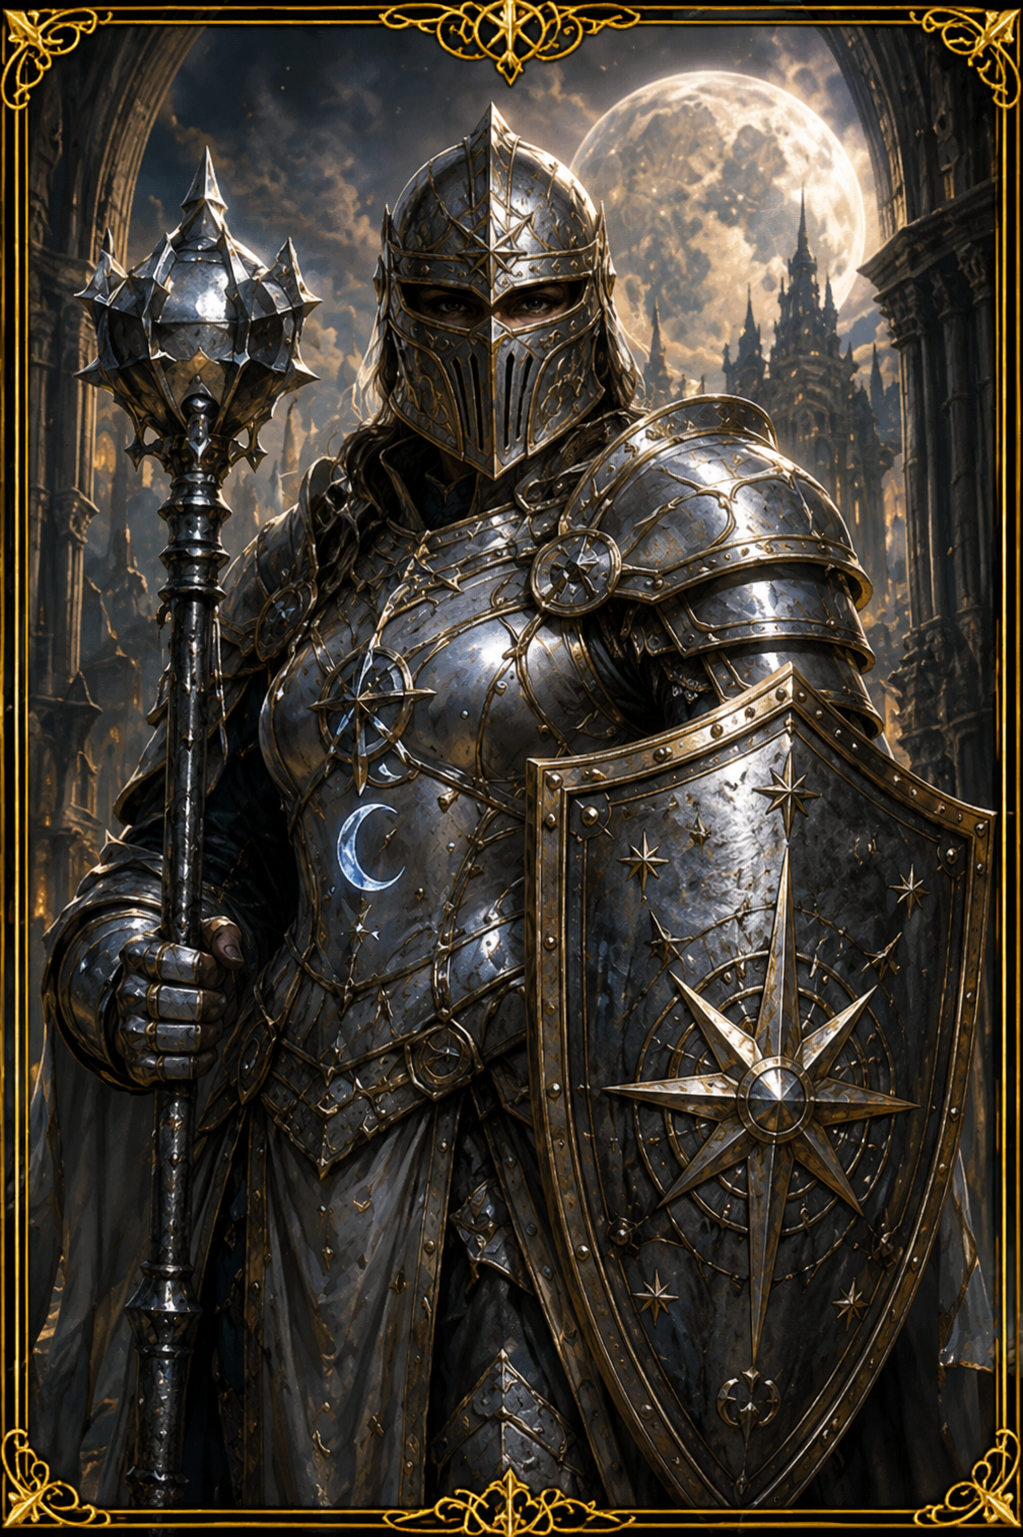
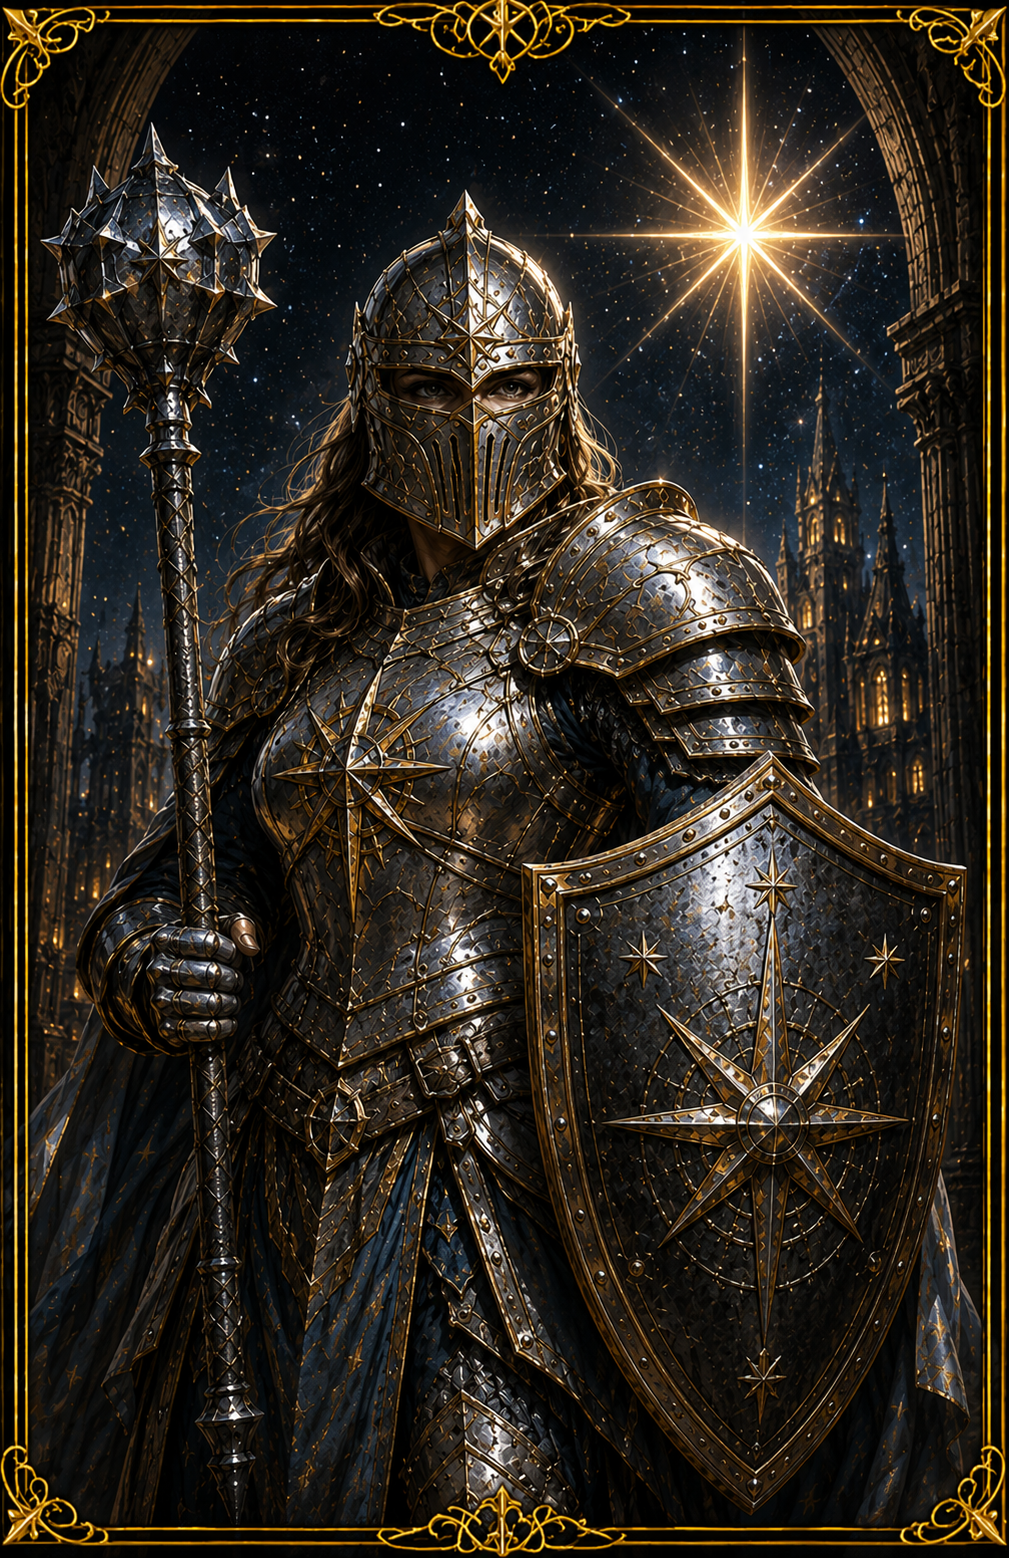
Unify spell/effect color logic in EffectVisualConfig
Centralized all spell and effect color mapping in EffectVisualConfig, removing duplicated string-matching and switch logic from CombatPlaybackEngine, AvaloniaCombatPresenter, and MainWindowViewModel. Added GetElementColor, GetElementDoTName, and GetSpellOverlayColor for consistent, data-driven color assignment. All color lookups now delegate to this config, ensuring maintainability and identical visual output.

diff --git a/src/BattleArena.Presentation/CombatPlaybackEngine.cs b/src/BattleArena.Presentation/CombatPlaybackEngine.cs
@@ -303,27 +303,8 @@ public static class CombatPlaybackEngine
         }
     }
 
-    private static string SpellOverlayColor(string spellName)
-    {
-        var lower = spellName.ToLowerInvariant();
-        if (lower.Contains("fire") || lower.Contains("flame") || lower.Contains("burn") || lower.Contains("inferno"))
-            return "#ff6600";
-        if (lower.Contains("ice") || lower.Contains("frost") || lower.Contains("freeze") || lower.Contains("cold"))
-            return "#44ccff";
-        if (lower.Contains("shock") || lower.Contains("lightning") || lower.Contains("thunder") || lower.Contains("spark"))
-            return "#ffff44";
-        if (lower.Contains("heal") || lower.Contains("cure") || lower.Contains("bless") || lower.Contains("restore"))
-            return "#44cc44";
-        if (lower.Contains("stun") || lower.Contains("sleep") || lower.Contains("fear") || lower.Contains("charm"))
-            return "#cc44cc";
-        if (lower.Contains("poison") || lower.Contains("acid"))
-            return "#44ff44";
-        if (lower.Contains("arcane") || lower.Contains("magic") || lower.Contains("mystic"))
-            return "#cc88ff";
-        if (lower.Contains("shield") || lower.Contains("armor") || lower.Contains("ward") || lower.Contains("protect"))
-            return "#88aaff";
-        return "#ffffff";
-    }
+    private static string SpellOverlayColor(string spellName) =>
+        EffectVisualConfig.GetSpellOverlayColor(spellName);
 
     private static bool WasFromCriticalHit(IReadOnlyList<CombatLogEntry> turnEvents, int damageIndex)
     {
@@ -349,31 +330,8 @@ public static class CombatPlaybackEngine
         return damageAmount * 100 >= targetState.MaxHp * devastationThresholdPercent;
     }
 
-    private static string GetPersistentColor(string effectName)
-    {
-        if (CcVisualConfig.IsCcEffect(effectName))
-            return CcVisualConfig.GetColor(effectName);
-        return effectName switch
-        {
-            "Burning" => "#ff6600",
-            "Ignite" => "#ff4400",
-            "Frozen" => "#44ccff",
-            "Freeze" => "#44ccff",
-            "Shocked" => "#ffff44",
-            "Poisoned" => "#44ff44",
-            "Bleeding" => "#ff4444",
-            "Electrified" => "#88ddff",
-            "Confused" => "#aaaaaa",
-            "Charmed" => "#ff88aa",
-            _ => TryGetTransferColor(effectName),
-        };
-    }
-
-    private static string TryGetTransferColor(string effectName)
-    {
-        var config = TransferEffectRegistry.GetConfig(effectName);
-        return config.TransferColor;
-    }
+    private static string GetPersistentColor(string effectName) =>
+        EffectVisualConfig.GetColor(effectName);
 
     private static void EmitCombatSounds(VisualEventBus bus, CombatLogEntry entry)
     {

diff --git a/src/BattleArena.Presentation/EffectVisualConfig.cs b/src/BattleArena.Presentation/EffectVisualConfig.cs
@@ -2,6 +2,7 @@ namespace BattleArena.Presentation;
 
 using System;
 using System.Collections.Generic;
+using BattleArena.Core.Entities.Enums;
 
 [Flags]
 public enum EffectVisualTarget
@@ -71,6 +72,49 @@ public static class EffectVisualConfig
             "Charmed"   => "#ff88aa",
             _           => "#88ccff",
         };
+    }
+
+    public static string GetElementColor(ElementalType type) => type switch
+    {
+        ElementalType.Fire => "#ff6600",
+        ElementalType.Ice => "#44ccff",
+        ElementalType.Lightning => "#ffff44",
+        ElementalType.Poison => "#44ff44",
+        ElementalType.Holy => "#ffffaa",
+        ElementalType.Shadow => "#aa44aa",
+        ElementalType.Acid => "#44ff44",
+        _ => "#ffffff",
+    };
+
+    public static string? GetElementDoTName(ElementalType type) => type switch
+    {
+        ElementalType.Fire => "Burning",
+        ElementalType.Ice => "Chilled",
+        ElementalType.Lightning => "Shocked",
+        ElementalType.Poison => "Poisoned",
+        _ => null,
+    };
+
+    public static string GetSpellOverlayColor(string spellName)
+    {
+        var lower = spellName.ToLowerInvariant();
+        if (lower.Contains("fire") || lower.Contains("flame") || lower.Contains("burn") || lower.Contains("inferno"))
+            return "#ff6600";
+        if (lower.Contains("ice") || lower.Contains("frost") || lower.Contains("freeze") || lower.Contains("cold"))
+            return "#44ccff";
+        if (lower.Contains("shock") || lower.Contains("lightning") || lower.Contains("thunder") || lower.Contains("spark"))
+            return "#ffff44";
+        if (lower.Contains("heal") || lower.Contains("cure") || lower.Contains("bless") || lower.Contains("restore"))
+            return "#44cc44";
+        if (lower.Contains("stun") || lower.Contains("sleep") || lower.Contains("fear") || lower.Contains("charm"))
+            return "#cc44cc";
+        if (lower.Contains("poison") || lower.Contains("acid"))
+            return "#44ff44";
+        if (lower.Contains("arcane") || lower.Contains("magic") || lower.Contains("mystic"))
+            return "#cc88ff";
+        if (lower.Contains("shield") || lower.Contains("armor") || lower.Contains("ward") || lower.Contains("protect"))
+            return "#88aaff";
+        return "#ffffff";
     }
 
     public static EffectVisualTarget GetVisualTarget(string effectName)

diff --git a/src/BattleArena.Gui/ViewModels/MainWindowViewModel.cs b/src/BattleArena.Gui/ViewModels/MainWindowViewModel.cs
@@ -754,24 +754,8 @@ public sealed class CharCardViewModel : INotifyPropertyChanged
     private static readonly IBrush TmPipeEmpty = new SolidColorBrush(Color.Parse("#1a1a2e"));
     private static readonly IBrush TmPipeLocked = new SolidColorBrush(Color.Parse("#ffffff"));
 
-    private static string GetEffectColor(string name)
-    {
-        if (CcVisualConfig.IsCcEffect(name))
-            return CcVisualConfig.GetColor(name);
-        return name switch
-        {
-            "Burning"   => "#ff6600",
-            "Ignite"    => "#ff4400",
-            "Frozen"    => "#44ccff",
-            "Freeze"    => "#44ccff",
-            "Shocked"   => "#ffff44",
-            "Electrified" => "#44ccff",
-            "Poisoned"  => "#44ff44",
-            "Bleeding"  => "#ff4444",
-            "Leech" or "LeechMana" => TransferEffectRegistry.GetConfig(name).TransferColor,
-            _           => "#88ccff",
-        };
-    }
+    private static string GetEffectColor(string name) =>
+        EffectVisualConfig.GetColor(name);
 
     public ObservableCollection<IBrush> TmPipes { get; }
 

diff --git a/src/BattleArena.Gui/Presenters/AvaloniaCombatPresenter.cs b/src/BattleArena.Gui/Presenters/AvaloniaCombatPresenter.cs
@@ -844,19 +844,7 @@ internal sealed class AvaloniaCombatPresenter : ICombatPresenter
     }
 
     private static IBrush EffectColor(string? effectName) =>
-        MakeBrush(effectName switch
-        {
-            "Burning" => "#ff6600",
-            "Ignite" => "#ff4400",
-            "Frozen" or "Freeze" => "#44ccff",
-            "Shocked" => "#ffff44",
-            "Electrified" => "#88ddff",
-            "Poisoned" => "#44ff44",
-            "Bleeding" => "#ff4444",
-            "Confused" => "#aaaaaa",
-            "Charmed" => "#ff88aa",
-            _ => "#88ccff",
-        });
+        MakeBrush(EffectVisualConfig.GetColor(effectName ?? ""));
 
     private static List<LogSegment> BuildDoTTickRow(CombatLogEntry e, CombatDisplayState state)
     {

diff --git a/src/BattleArena.Gui/Models/SpellDisplayItem.cs b/src/BattleArena.Gui/Models/SpellDisplayItem.cs
@@ -2,6 +2,7 @@ namespace BattleArena.Gui.Models;
 
 using Core.Entities;
 using Core.Entities.Enums;
+using BattleArena.Presentation;
 
 public sealed class SpellDisplayItem
 {
@@ -9,6 +10,9 @@ public sealed class SpellDisplayItem
 
     public Spell Spell { get; }
     public string Name => Spell.Name;
+    public string Color => EffectVisualConfig.GetElementColor(Spell.ElementalType);
+    public string? AfterburnEffectName => EffectVisualConfig.GetElementDoTName(Spell.ElementalType);
+    public string AfterburnColor => AfterburnEffectName is { } name ? EffectVisualConfig.GetColor(name) : "#ffffff";
     public string DamageInfo
     {
         get

diff --git a/bugs-features/done/task/18-Task - Unify Spell Color Detection.md b/bugs-features/done/task/18-Task - Unify Spell Color Detection.md
@@ -6,7 +6,7 @@ Priority: Medium
 
 Type: Refactoring
 
-Status: Draft
+Status: Done
 
 ---
 
@@ -123,9 +123,27 @@ Combine A + C:
 
 ## Acceptance Criteria
 
-- [ ] Only one canonical source of spell/effect color mapping exists
-- [ ] `SpellOverlayColor` and `EffectColor` both delegate to the shared config
-- [ ] Color output is identical to current behavior for all existing spell names and effect names
-- [ ] Adding a new effect requires updating only the config class, not the playback engine or presenter
-- [ ] All 719 tests pass
-- [ ] No visual regression in combat playback overlays
+- [x] Only one canonical source of spell/effect color mapping exists
+- [x] `SpellOverlayColor` and `EffectColor` both delegate to the shared config
+- [x] Color output is identical to current behavior for all existing spell names and effect names
+- [x] Adding a new effect requires updating only the config class, not the playback engine or presenter
+- [x] All 719 tests pass
+- [x] No visual regression in combat playback overlays
+
+## Summary
+
+Consolidated all spell/effect color detection into `EffectVisualConfig`:
+
+- **`EffectVisualConfig.GetElementColor(ElementalType)`** — ElementalType-driven color for spell display (used by `SpellDisplayItem`)
+- **`EffectVisualConfig.GetElementDoTName(ElementalType)`** — maps elemental type to afterburn effect name (e.g., Fire → "Burning", Ice → "Chilled")
+- **`EffectVisualConfig.GetSpellOverlayColor(string)`** — centralized name-based fallback for combat playback overlay (replaces old `SpellOverlayColor`)
+- **`EffectVisualConfig.GetColor(string)`** — effect color lookup (already existed, now the sole source)
+
+Removed duplicate methods:
+- `CombatPlaybackEngine.SpellOverlayColor()` → delegates to `EffectVisualConfig.GetSpellOverlayColor()`
+- `CombatPlaybackEngine.GetPersistentColor()` → delegates to `EffectVisualConfig.GetColor()`
+- `CombatPlaybackEngine.TryGetTransferColor()` → removed (handled by `GetColor`)
+- `AvaloniaCombatPresenter.EffectColor()` → delegates to `EffectVisualConfig.GetColor()`
+- `MainWindowViewModel.CharCardViewModel.GetEffectColor()` → delegates to `EffectVisualConfig.GetColor()`
+
+Extended `SpellDisplayItem` with `Color`, `AfterburnEffectName`, `AfterburnColor` — color follows the spell everywhere in the GUI.
